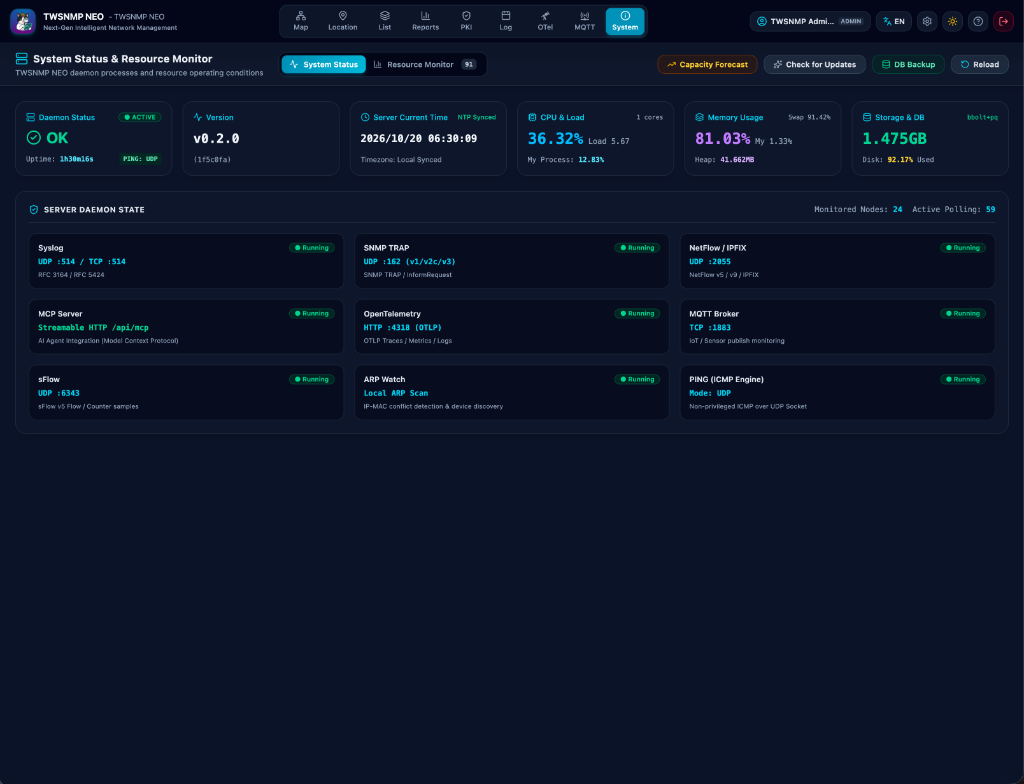
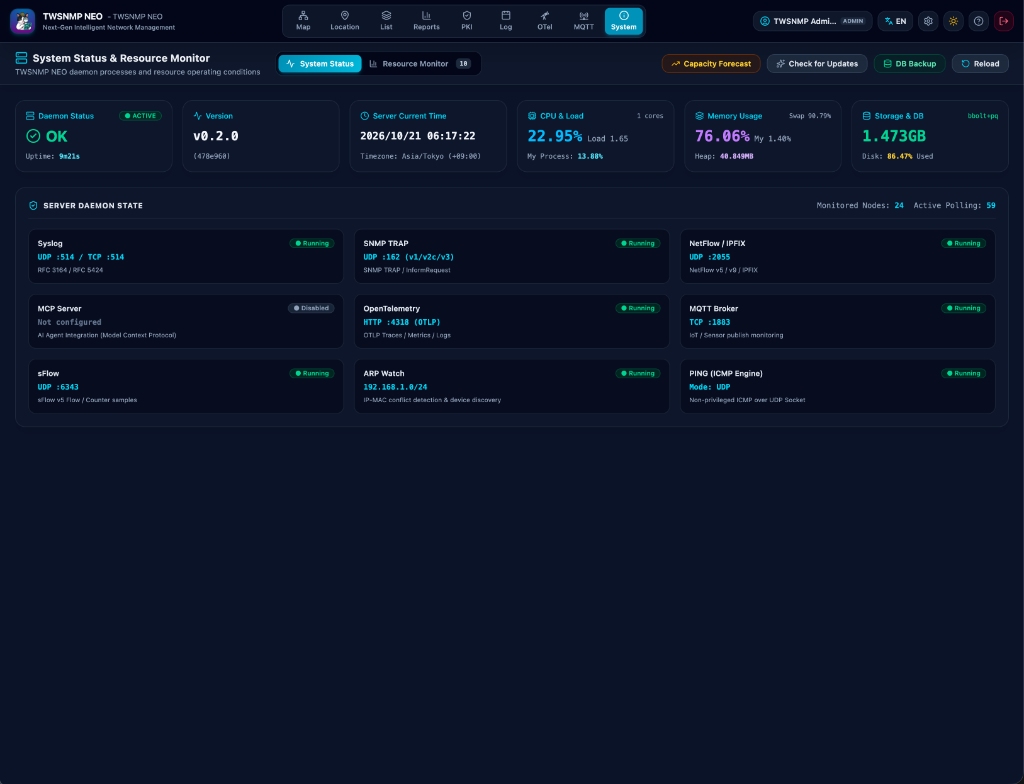
chore(release): prepare v0.3.0 release with GIS location mapping and docs update

diff --git a/frontend/src/lib/views/SystemView.svelte b/frontend/src/lib/views/SystemView.svelte
@@ -532,7 +532,7 @@
           </div>
           <div class="my-2 flex items-baseline gap-2">
             <span class="text-xl font-bold font-mono text-slate-900 dark:text-slate-100">
-              {formatVersion(sysInfo?.version) || "v0.2.0"}
+              {formatVersion(sysInfo?.version) || "v0.3.0"}
             </span>
           </div>
           <div class="text-[11px] text-slate-500 dark:text-slate-400 font-mono truncate flex items-center justify-between">

diff --git a/frontend/src/lib/components/SystemUpdateModal.svelte b/frontend/src/lib/components/SystemUpdateModal.svelte
@@ -219,7 +219,7 @@
               {$_("system.currentVersion")}
             </span>
             <span class="text-lg font-bold font-mono text-slate-800 dark:text-slate-200 mt-0.5">
-              {formatVersion(updateInfo.current_version) || "v0.2.0"}
+              {formatVersion(updateInfo.current_version) || "v0.3.0"}
             </span>
           </div>
 

diff --git a/backend/cmd/twsnmpneo/main.go b/backend/cmd/twsnmpneo/main.go
@@ -35,7 +35,7 @@ import (
 )
 
 var (
-	version = "v0.2.0"
+	version = "v0.3.0"
 	commit  = ""
 	date    = "unknown"
 )

diff --git a/docs/index_ja.md b/docs/index_ja.md
@@ -22,6 +22,7 @@ layout: default
 ### 主な特徴
 - **ブラウザだけで完結する高度な運用**: インストール不要でPCやタブレットのブラウザからアクセス可能。
 - **p5.js & 3D WebGL マップ**: スイッチングハブの物理ポートやLED点灯状態、3Dハードウェアパネルをリアルに再現。
+- **GIS 位置情報マップ (MapLibre)**: 国土地理院やOpenStreetMap等の各種地図タイル上にノードを配置し、広域ネットワークの物理配置を直感的に監視。
 - **Apache Parquet 列指向ストレージ**: 数百万件の Syslog、TRAP、NetFlow、sFlow を高速圧縮保存し、瞬時に検索・集計。
 - **マルチLLM & 内蔵 MCP サーバー**: 生成AI（Gemini, OpenAI, Claude, Ollama）と Model Context Protocol (MCP) を標準搭載し、AIによるログ原因調査やポーリング作成を支援。
 - **ゼロ依存プライベート PKI**: ブラウザから即座に Root CA を立ち上げ、ACME/SCEP による証明書自動配布を実現。
@@ -219,6 +220,20 @@ TWSNMP NEO は直感的なシングルページアプリケーション（SPA）
 - **マップデータインポート**: TWSNMP FC / FK / NEO でエクスポートしたマップ定義の復元・取り込み。
 
 ![](./images/ja/settings_map.png)
+
+### 位置情報マップ（GIS / MapLibre）
+
+MapLibre GL を採用し、ノードの緯度・経度情報をもとに実際の地理空間上にノードを配置・監視できる本格的な GIS マップビューを提供します。拠点間ネットワークや物理拠点の配置状況を一目で把握できます。
+
+![](./images/ja/location_map.png)
+
+- **多彩な地図タイルプリセット**: 国土地理院（淡色地図、標準地図、写真、白地図）、CARTO（Dark / Light）、OSM Bright、MIERUNE Mono、OSM Standard、およびカスタムタイルURL/スタイルJSONに対応。
+- **直感的な配置操作**: 未配置ノードのドロップダウン選択配置、地図余白の右クリックによるノード配置ダイアログ、マーカーのドラッグ＆ドロップによる位置変更（即時保存）。
+- **初期表示保存 (Save Default View)**: 現在の中心座標とズームレベルを、次回起動時のデフォルト表示位置としてワンクリック保存。
+- **位置ロック機能**: 意図しないマーカードラッグを防止する位置ロック / 編集モード切替。
+- **ノード状態カラー連動**: ノードの障害レベル（正常、注意、警告、重大）に応じたカラーとアイコン、ラベルを地図上にリアルタイム反映。
+
+![](./images/ja/location_config.png)
 
 ---
 

diff --git a/docs/index.md b/docs/index.md
@@ -22,6 +22,7 @@ It consolidates the container portability of **TWSNMP FC** and the advanced visu
 ### Core Highlights
 - **Zero-Install Web Experience**: Full management capabilities accessible from any modern desktop or mobile browser.
 - **p5.js & 3D WebGL Canvas**: Hardware-accurate switching hub panels with real-time port LEDs and full 3D interactive hardware panels (`vpanel`).
+- **GIS Geographic Map (MapLibre)**: Plot network nodes across geographic tile layers (OpenStreetMap, GSI, CARTO, etc.) with real-time health status coloring and interactive positioning.
 - **Apache Parquet Columnar Storage**: Millions of Syslog, TRAP, NetFlow, and sFlow records stored with high compression ratios and sub-second query performance.
 - **Native AI & Built-in MCP Server**: Integrated multi-LLM client (`tensai`) and Model Context Protocol (MCP) server for instant root cause diagnosis and natural language polling creation.
 - **Self-Contained Private PKI**: Issue, renew, and automate TLS certificates via ACME and SCEP directly within your network manager.
@@ -213,6 +214,20 @@ Configure global map appearance and underlying canvas properties:
 - **Import Map Data**: Restore layouts exported from TWSNMP FC, FK, or NEO.
 
 ![](./images/en/settings_map.png)
+
+### GIS Location Map (MapLibre)
+
+Powered by MapLibre GL, the GIS Location view visualizes node physical distribution across real-world geographic map layers based on each node's latitude and longitude (`Loc` property). Ideal for wide-area networks (WAN) and multi-site campus infrastructure monitoring.
+
+![](./images/en/location_map.png)
+
+- **Comprehensive Map Style Presets**: Built-in map tile presets including Geospatial Information Authority of Japan (GSI Pale, Standard, Photo), CARTO (Dark / Light), OSM Bright, MIERUNE Mono, OSM Standard, or custom tile JSON/URLs.
+- **Intuitive Node Placement**: Place unmapped nodes directly from the top selector dropdown or right-click any blank map point to summon the node placement dialog. Easily reposition nodes using marker drag-and-drop with instant coordinate persistence.
+- **Save Default View**: Save the current map center and zoom level as the default startup viewpoint with a single click.
+- **Location Lock Toggle**: Toggle editing mode to lock markers and prevent accidental dragging during monitoring operations.
+- **Real-Time State Indicators**: Node marker icons and labels dynamically reflect real-time operational health (Normal, Warning, High Error, Critical).
+
+![](./images/en/location_config.png)
 
 ---
 

diff --git a/README_ja.md b/README_ja.md
@@ -34,6 +34,7 @@
 
 ### 1. モダンWeb & 3D ビジュアライゼーション
 - **p5.js マップキャンバス**: ノードアイコン（MDIフォント/カスタム画像）、SW-HUBネットワークポートパネル（LED点灯・折り返し表示）、トラフィックに応じた線の太さ・パケットフローアニメーション、全11種の描画アイテム（KPIカード、スパークライン、ゲージ、形状、画像）。
+- **MapLibre GIS 位置情報マップ**: 国土地理院・OpenStreetMap・CARTO 等の地図タイル上にノードを配置し、広域拠点網の地理的物理配置とリアルタイム稼働状態を監視。未配置ノード配置、マーカードラッグ＆ドロップ、表示位置保存に対応。
 - **3D 仮想ハードウェアパネル（`vpanel`）**: WebGLによる3Dスイッチングハブ描画。RJ45ポートテクスチャ、Link UP/DOWN緑LED、1Gbps+橙LED、POWER青LED、マウスによる3D回転・自動回転表示。
 - **Apache ECharts 分析チャート**: レスポンス推移、トラフィック量、IPAMヒートマップ、各種ログの時系列・ヒストグラム分析。
 

diff --git a/README.md b/README.md
@@ -33,6 +33,7 @@
 
 ### 1. Modern Web & 3D Visualization
 - **p5.js Topology Canvas**: Node icons (MDI font/custom images), switching hub network port panels with LED indicators, bandwidth flow animation, and 11 distinct draw item types (KPI cards, sparklines, gauges, shapes, images).
+- **MapLibre GIS Geographic Map**: Plot and monitor nodes across geographical layers (OpenStreetMap, GSI, CARTO) with real-time status coloring, marker drag-and-drop repositioning, unplaced node placement, and default view persistence.
 - **3D Virtual Hardware Panel (`vpanel`)**: WebGL-accelerated 3D switch rendering with RJ45 port textures, Link UP/DOWN & 1Gbps+ speed LEDs, power LEDs, and interactive orbit controls.
 - **Apache ECharts Analytics**: High-performance multi-axis time-series charts, IPAM utilization heatmaps, response time distribution, and traffic rate graphs.
 
